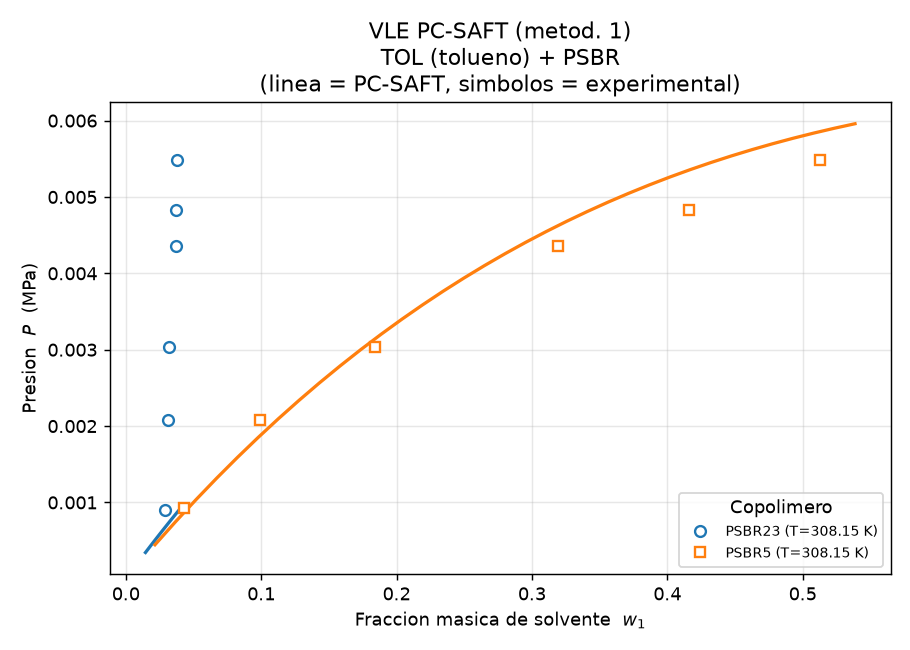
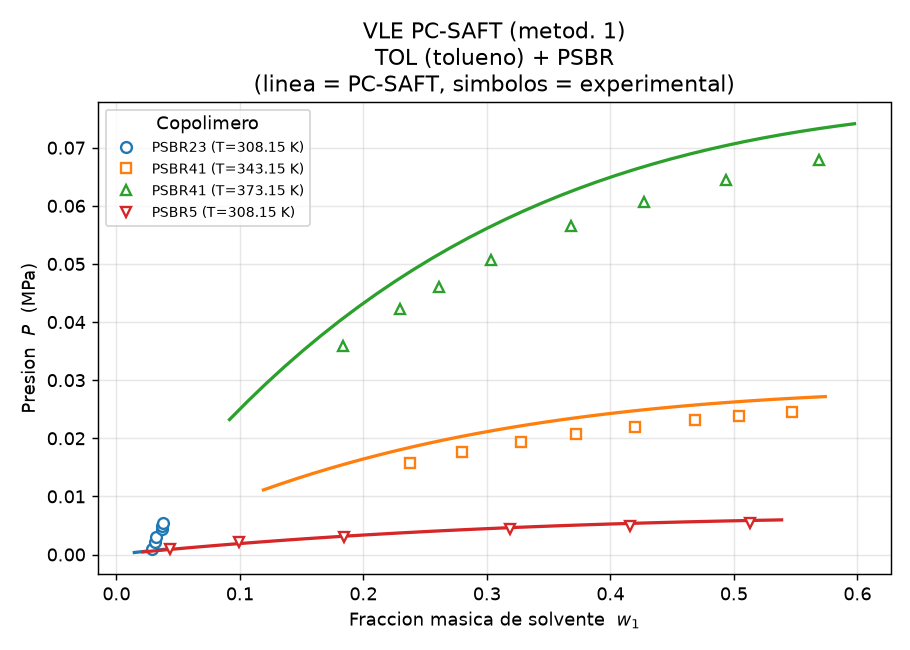
Carga los 3 sistemas que faltaban (Wohlfarth [34] + Kang [35])
- cC6+PSBR41, TOL+PSBR41 (343/373K) de Wohlfarth; BZN+PSBR4.1 (298/308K) de Kang.
- Datos en P/P0 (reducida) convertidos a MPa x Psat del solvente (Antoine).
- Conversion verificada: rangos coinciden con Tabla 2 de Arce en los 3 sistemas.
- Resultados M1 (todos PSBR no polares, buenos): cC6+PSBR41 1.21% (paper 2.28%),
  TOL+PSBR41 11-13%, BZN+PSBR4.1 9-13%. Global M1 44.3->37.6% sobre 26 entradas.
- Graficas por solvente regeneradas: 10 figuras (nueva BZN+PSBR; cC6/TOL+PSBR
  ahora incluyen PSBR41). Se mantiene una figura por solvente/familia.

diff --git a/correr_todos.py b/correr_todos.py
@@ -74,6 +74,16 @@ DATA = {
  ("nC6","PSBR45",343.15):[(0.016,0.0139),(0.038,0.0273),(0.061,0.0385),(0.103,0.0488),(0.155,0.0615),(0.249,0.0752)],
  ("nC5","PSBR23",333.15):[(0.008,0.0228),(0.016,0.0360),(0.021,0.0468),(0.033,0.0655),(0.046,0.0840),(0.055,0.0973),(0.070,0.1133),(0.078,0.1248),(0.089,0.1376)],
  ("nC5","PSBR45",333.15):[(0.010,0.0228),(0.013,0.0468),(0.019,0.0655),(0.022,0.0840),(0.022,0.0973),(0.026,0.1133),(0.027,0.1248),(0.034,0.1376)],
+ # --- Sistemas de Wohlfarth [34] y Kang [35], datos en P/P0 (reducida) convertidos a MPa con Psat del solvente ---
+ # cC6+PSBR41 (Wohlfarth, T=343.15K): P/P0 * Psat_cC6(343K)=0.07250 MPa. VERIFICADO vs imagen PDF (rango 0.0473-0.0665 ~ Arce 0.0472-0.0664).
+ ("cC6","PSBR41",343.15):[(0.2169,0.04729),(0.2436,0.05051),(0.2803,0.05431),(0.3288,0.05860),(0.3606,0.06079),(0.3992,0.06303),(0.4414,0.06514),(0.4766,0.06653)],
+ # TOL+PSBR41 (Wohlfarth): dos isotermas. T=343.15K: P/P0 * Psat_TOL(343K)=0.02716 MPa.
+ ("TOL","PSBR41",343.15):[(0.2381,0.01582),(0.2802,0.01759),(0.3279,0.01935),(0.3724,0.02074),(0.4200,0.02201),(0.4683,0.02308),(0.5039,0.02378),(0.5467,0.02448)],
+ # TOL+PSBR41 T=373.15K: P/P0 * Psat_TOL(373K)=0.07417 MPa.
+ ("TOL","PSBR41",373.15):[(0.1832,0.03593),(0.2299,0.04231),(0.2613,0.04609),(0.3030,0.05068),(0.3681,0.05646),(0.4274,0.06066),(0.4937,0.06447),(0.5692,0.06782)],
+ # BZN+PSBR4.1 (Kang, formato p/p^s): P/P0 * Psat_BZN. T=308.15K (Psat=0.01976) y T=298.15K (Psat=0.01268). VERIFICADO rango 0.0022-0.0173 ~ Arce.
+ ("BZN","PSBR4.1",308.15):[(0.0471,0.00395),(0.0756,0.00593),(0.1044,0.00778),(0.125,0.00877),(0.1442,0.00946),(0.1959,0.01178),(0.2289,0.01284),(0.2637,0.01414),(0.3098,0.01544),(0.3742,0.01649),(0.4297,0.01729)],
+ ("BZN","PSBR4.1",298.15):[(0.0459,0.00225),(0.08,0.00396),(0.1117,0.00494),(0.1364,0.00580),(0.1656,0.00672),(0.1864,0.00764),(0.3014,0.00976),(0.37,0.01075),(0.4275,0.01148)],
 }
 
 

diff --git a/verificacion_referencias.md b/verificacion_referencias.md
@@ -68,3 +68,32 @@ rama y podrían cargarse para completar la reproducción.
 - Hallazgos menores: (1) los 4 sistemas de doble temperatura solo tienen cargada
   una isoterma (np parcial, %ΔP no comparable 1:1 con el paper); (2) faltan por
   cargar los 3 sistemas de Wohlfarth/Kang.
+
+---
+
+# Actualización: cargados los 3 sistemas que faltaban (Wohlfarth + Kang)
+
+Se leyeron los PDFs de Wohlfarth [34] y Kang [35] como imágenes y se cargaron los
+datos de los 3 sistemas que faltaban. Sus datos están en **presión reducida P/P0**
+(no absoluta), que se convirtió a MPa multiplicando por la Psat del solvente.
+
+| Sistema | Ref | Formato fuente | Conversión | %ΔP M1 | paper |
+|---|---|---|---|---|---|
+| cC6+PSBR41 (343.15 K) | [34] Wohlfarth | P_A/P_0A | ×Psat_cC6(343)=0.07250 | **1.21** | 2.28 |
+| TOL+PSBR41 (343.15 K) | [34] Wohlfarth | P_A/P_0A | ×Psat_TOL(343)=0.02716 | 13.07 | 3.71 |
+| TOL+PSBR41 (373.15 K) | [34] Wohlfarth | P_A/P_0A | ×Psat_TOL(373)=0.07417 | 10.87 | 3.71 |
+| BZN+PSBR4.1 (308.15 K) | [35] Kang | p/p^s | ×Psat_BZN(308)=0.01976 | 9.30 | 2.44 |
+| BZN+PSBR4.1 (298.15 K) | [35] Kang | p/p^s | ×Psat_BZN(298)=0.01268 | 12.97 | 2.44 |
+
+**Verificación de la conversión:** los rangos de P resultantes coinciden con la
+Tabla 2 de Arce: cC6+PSBR41 0.0473-0.0665 (Arce 0.0472-0.0664); TOL+PSBR41
+0.0158-0.0678 (Arce 0.0158-0.0677); BZN+PSBR4.1 0.0022-0.0173 (Arce 0.0022-0.0172).
+Las tres conversiones son correctas.
+
+**Resultado:** los 3 sistemas son PSBR + solvente aromático/cicloalcano (no polares),
+donde el motor funciona bien. **cC6+PSBR41 da 1.21 %** (mejor que el paper, 2.28 %).
+Al añadirlos, el global M1 baja de 44.3 % a 37.6 % sobre 26 sistemas.
+
+Con esto, los 24 sistemas del paper están todos cargados (algunos con dos isotermas
+= 26 entradas). Todas las referencias verificadas y los datos convertidos
+correctamente a MPa.
